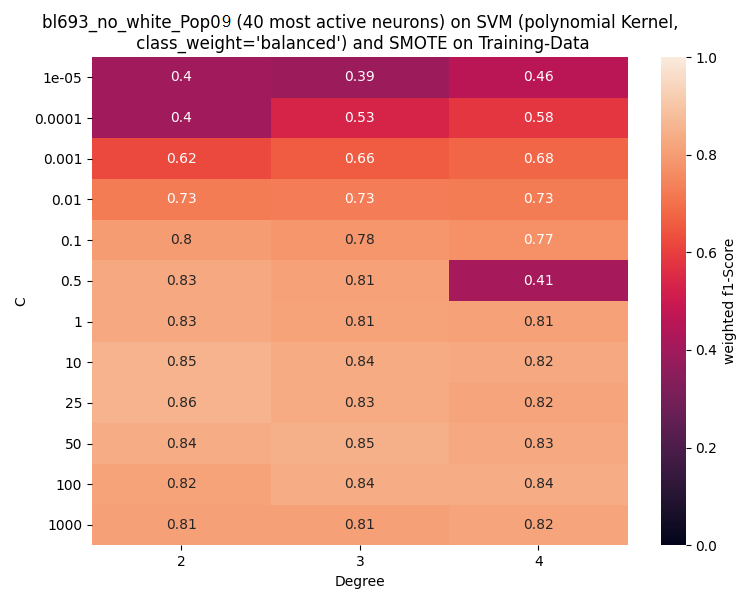
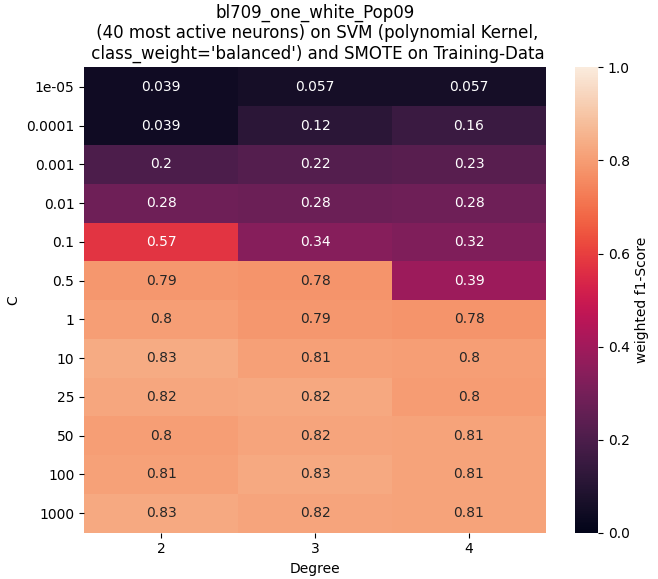
.

diff --git a/Skripte/Plotter.py b/Skripte/Plotter.py
@@ -552,7 +552,7 @@ class Plotter:
         c = Classifier([pop], path)
         c.split_trial_wise()
         c.use_SMOTE()
-        c.do_SVM(kernel='rbf', c=1, gamma=0.5, class_weight='balanced')
+        c.do_SVM(kernel='poly', c=1, gamma=0.5, degree=4, class_weight='balanced')
         return c.get_cm()
 
     def CM_for_all_pop(self, title:str, norm: bool=True, show:bool=True, dest_path:str=None):
@@ -649,13 +649,12 @@ def get_all_pop(path: str=r'C:\Users\Sam\Desktop\BachelorInfo\Bachelor-Info\Date
 populations = get_all_pop()
 a = Plotter(populations, r'D:\Dataframes\PCA\2')
 ok, nt_ok = a.sort_out_populations(show=False)
-b = Plotter(ok, r'D:\Dataframes\single_values\mean_over_all')
+b = Plotter(ok, r'D:\Dataframes\tSNE\perp30')
 #b = Plotter(ok, r'D:\Dataframes\most_active_neurons\100')
 #b.plot_mean_of_each_class("Neuron-wise mean of the 40 Most active neurons,\n seperated into the four classes")
-b.histogram_single_values("All trials with their mean over all neurons", "Histogram of all populations with all four classes", max_bins=0.1)
+#b.histogram_single_values("All trials with their mean over all neurons", "Histogram of all populations with all four classes", max_bins=0.1)
+b.CM_for_all_pop("Class-wise Normalized Confusion Matrix of all\n Populations (2 tSNE Components, perplexity=30) with all 4 classes. \n Classification via SVM(kernel='poly', c=1, degree=4, class_weight='balanced')")
 
-
-#b.CM_for_all_pop("Class-wise Normalized Confusion Matrix of all Populations with all 4 classes. \n Classification via SVM(kernel='rbf', c=1, gamma=0.5, class_weight='balanced')")
 #b.boxplot_of_scores("F1-Scores with 40 most active neurons\n and SVM('rbf'-Kernel, balanced class weights) and SMOTE on Training-Data")
 #b.histogram_of_scores("Distribution of F1-Scores with 40 most active neurons\n and SVM('rbf'-Kernel, balanced class weights) and SMOTE on Training-Data", random=True)
 #b.histogram_single_values("sum over all neurons", "Histogram of all Populations with all 4 Classes \n and a relative frequency of at least 0.05", max_bins=20)

diff --git a/Skripte/Classifier.py b/Skripte/Classifier.py
@@ -260,14 +260,15 @@ class Classifier():
         for c in range(len(C)):
             print(C[c])
             results.append([])
-            for y in range(len(Y)):
-                svm = SVC(kernel=kernel, C=C[c], degree=degree, gamma=Y[y], class_weight=class_weight).fit(self.X_train, self.y_train)
+            for y in range(len(degree)):
+                #svm = SVC(kernel=kernel, C=C[c], degree=degree, gamma=Y[y], class_weight=class_weight).fit(self.X_train, self.y_train)
+                svm = SVC(kernel=kernel, C=C[c], degree=degree[y], class_weight=class_weight).fit(self.X_train, self.y_train)
                 self.classifier = svm
                 f1 = metrics.f1_score(self.y_test, self.classifier.predict(self.X_test), average="weighted")
                 results[c].append(round(f1,4))
-        ax = sns.heatmap(results, annot=True, vmin=0, vmax=1, xticklabels=Y, yticklabels=C, cbar_kws={'label': 'weighted f1-Score'})
-        if Y!=[1]:
-            plt.xlabel('Gamma')
+        #ax = sns.heatmap(results, annot=True, vmin=0, vmax=1, xticklabels=Y, yticklabels=C, cbar_kws={'label': 'weighted f1-Score'})
+        ax = sns.heatmap(results, annot=True, vmin=0, vmax=1, xticklabels=degree, yticklabels=C, cbar_kws={'label': 'weighted f1-Score'})
+        plt.xlabel('Degree')
         plt.ylabel('C')
         plt.title(title)
         plt.show()    

diff --git a/Skripte/main.py b/Skripte/main.py
@@ -15,7 +15,7 @@ def get_n_random(n, remove=None, path=r'D:\Dataframes\100_Transition'):
     return test
 
 #a = Classifier(['bl693_no_white_Pop05', 'bl693_no_white_Pop02', 'bl693_no_white_Pop03'], r'D:\Dataframes\tSNE\perp30')
-a = Classifier(['bl709_one_white_Pop09'], r'D:\Dataframes\tSNE\perp30')
+a = Classifier(['bl709_one_white_Pop09'], r'D:\Dataframes\uMap\2')
 a.split_trial_wise()
 #a.print_shape()
 a.use_SMOTE()
@@ -27,5 +27,6 @@ a.use_SMOTE()
 #print("Weighted: ",a.get_f1(avg="weighted"))
 #a.plot_CM(title="bl693_no_white_Pop09,\n SMOTE on Training-Data\n SVM(kernel='poly',degree=3 c=1, class_weight='balanced')")
 c = [0.00001, 0.0001, 0.001, 0.01, 0.1, 0.5, 1, 10, 25, 50, 100, 1000]
-title="bl709_one_white_Pop09\n (2 tSNE Components, perplexity=30) on SVM (linear Kernel,\n class_weight='balanced') and SMOTE on Training-Data"
-a.grid_search(title, C=c, kernel='linear')
+#c = [0.00001, 0.0001, 0.001, 0.01, 0.1, 0.5, 1, 10, 50, 100]
+title="bl709_one_white_Pop09\n (2 uMAP Components) on SVM (polynomial Kernel,\n class_weight='balanced') and SMOTE on Training-Data"
+a.grid_search(title, C=c, kernel='poly', degree=[2,3,4])

diff --git a/Skripte/DeepLearning.py b/Skripte/DeepLearning.py
@@ -212,7 +212,7 @@ class FeedforwardNetWork():
             plt.imshow(matrices[w], cmap='hot', interpolation='nearest', vmin=mini, vmax=maxi)
             plt.colorbar()
             plt.ylabel('Input-Layer')
-            plt.xlabel('First Layer')
+            plt.xlabel('First Hidden\n Layer')
             plt.title(keys[w])
             plt.show()
 
